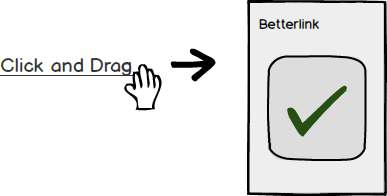
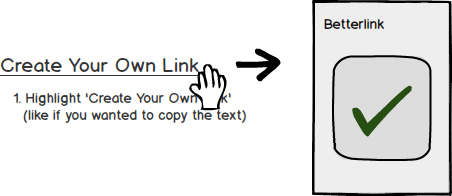
clarify 'Create Own Link' instructions
also update the image to match the instructions

diff --git a/get-started.html b/get-started.html
@@ -105,16 +105,22 @@
             <div class="clearfix"></div>
             <h2 class="section-heading">Create Your Own Link</h2>
             <ol class="lead">
-              <li>Highlight this line (like if you wanted to copy the text)</li>
-              <li>Hover over the above line. Click and hold. Start dragging.</li>
-              <li>A sidebar will open to the right. Drop the text in the flashing 'dropzone'.</li>
+              <li>Highlight 'Create Your Own Link'.
+                <br/>(like if you wanted to copy the text)
+              </li>
+              <li>Hover over your selection. Click and hold.
+                <br/>Start dragging.
+              </li>
+              <li>A sidebar will open to the right.
+                <br/>Drop the text in the flashing 'dropzone'.
+              </li>
             </ol>
 
             <p class="section-ending">No logins. No passwords. Keep it simple.</p>
 
           </div>
 
-          <div class="col-lg-5 col-lg-offset-2 col-sm-6" style="margin-top: 4%;">
+          <div class="col-lg-5 col-lg-offset-1 col-sm-6" style="margin-top: 4%;">
             <img class="img-responsive" src="/images/demo_image.png" alt="demonstration example">
           </div>
         </div><!-- /.row -->
